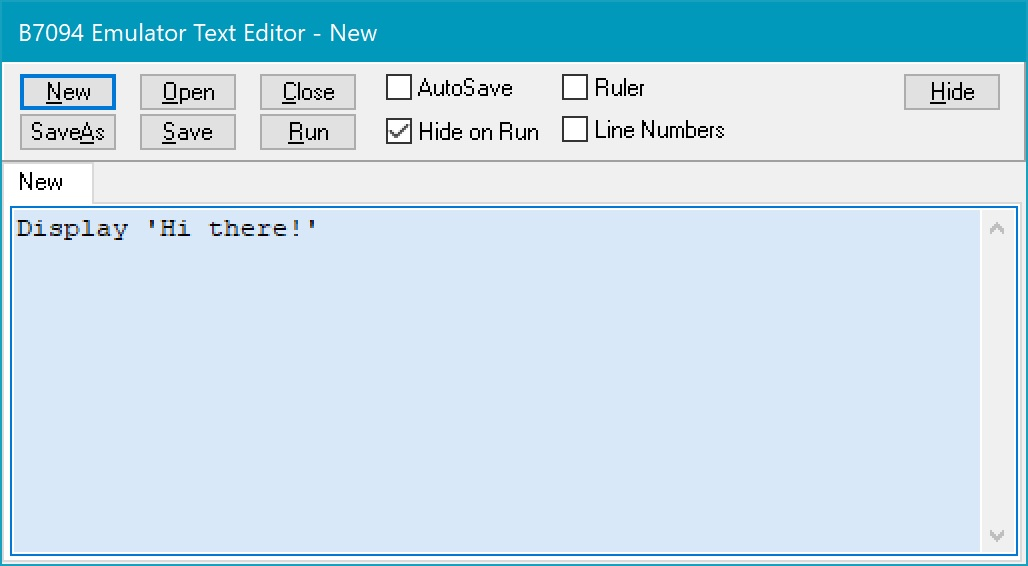
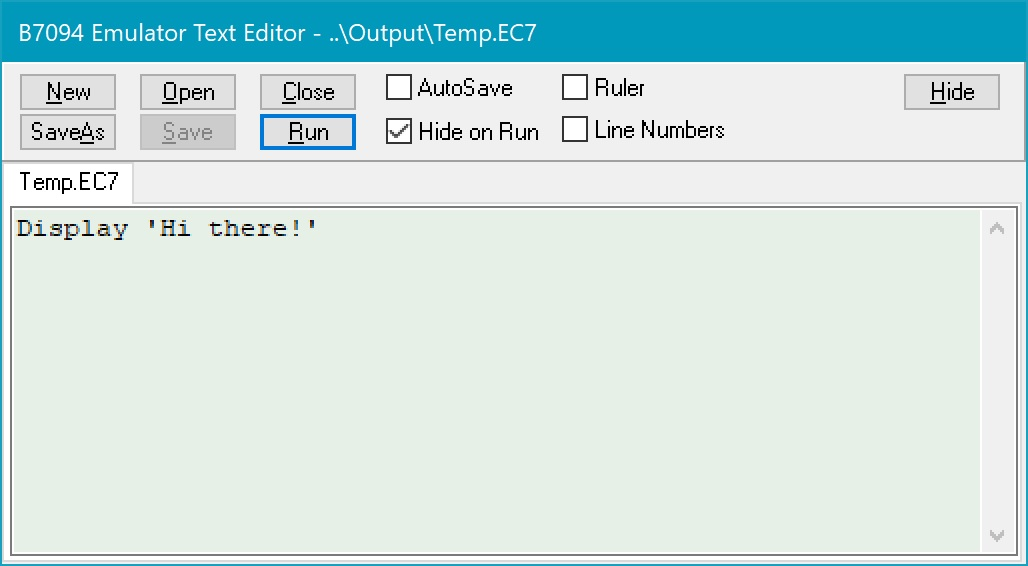
Add files via upload

diff --git a/README.md b/README.md
@@ -224,7 +224,7 @@ So to use the Editor to create and run an EC7 script, start B7094 and in the fir
 
 Now activate the Editor window by either clicking the 'Editor' button on the Control Panel window, or by clicking the Editor checkbox there (they do the same thing). Unless you've previously had a file open in the Editor (and its name was saved in ..\Bin\B7094.INI and the file still exists), the Editor will initially come up as an all-white box with some buttons and checkboxes near the top.
 
-To create a new file (generally you'll be creating a script for B7094 to run), click the 'New' button. The box will turn blue, it'll get a scrollbar on the right, and a tab will appear with the label 'New' in it.
+To create a new file (generally you'll be creating a script for B7094 to run), click the 'New' button. The box will turn green, it'll get a scrollbar on the right, and a tab will appear with the label 'Temp.EC7' in it.
 
 You can start typing at this point, like so:
 
@@ -236,11 +236,9 @@ Now click the 'Run' button, and voilà:
 
 Click either the 'Continue' or the 'Cancel' button, and the 'B7094 Scripter' window will close, the script will end, and the Editor window will re-open (in the former case, because there's no more script to Continue; in the latter case, continuation of a longer script would be Cancelled at that point).
 
-When the Editor window reappears, it will have turned green, and the filename tab will now show 'Temp.EC7':
+When you clicked 'New', the Editor automatically created a temporary file ..\Output\Temp.EC7 , and when you clicked 'Run' it automatically saved what you had typed and ran the Scripter from that file. You can continue to make changes in your script and 'Run' them, and those changes will automatically be saved to 'Temp.EC7'. If you make a change and then click 'Close', you'll be prompted to save the file. You can also 'Save' it yourself at any time, or use the 'SaveAs' button to save your script anywhere, under any name you choose.
 
-![Screenshot](Editor_screenshot3.jpg)
-
-When you clicked 'Run', the Editor automatically created a temporary file ..\Output\Temp.EC7 and ran the Scripter from that file. You can continue to make changes in your script and 'Run' them, and those changes will automatically be saved to 'Temp.EC7'. If you make a change and then click 'Close', you'll be prompted to save the file. You could also use the 'SaveAs' button at any time to save your script anywhere, under any name you choose.
+You can click 'New' multiple times, and get multiple edit boxes. When they're created, the edit boxes will all point to ..\Output\Temp.EC7, but they will have entirely separate contents in memory, and you can switch between them and 'Run' the scripts in them freely. But here's the catch: if you want to **keep** one or more of the multiple "Temp.EC7' text boxes, you must save it to a "real" file (named something other than ..\Output\Temp.EC7) before you power off. You can also 'Open' "real" files to have them simultaneously open in multiple edit boxes.
 
 And that's basically all there is to the Editor. The EC7 scripting language is another story. Probably the best way to get a grip on that would be to examine the existing scripts in the ..\Files\Scripts directory. Most of what you'll want to do will be in there somewhere. But there's also a manual, ..\Docs\B7094ScripterSyntax.txt that gives a full description of the language (admittedly, in somewhat opaque "formal syntax" style). Here's a sequence of commands from one of the more difficult-to-parse entries in the Syntax manual, and its result:
 
